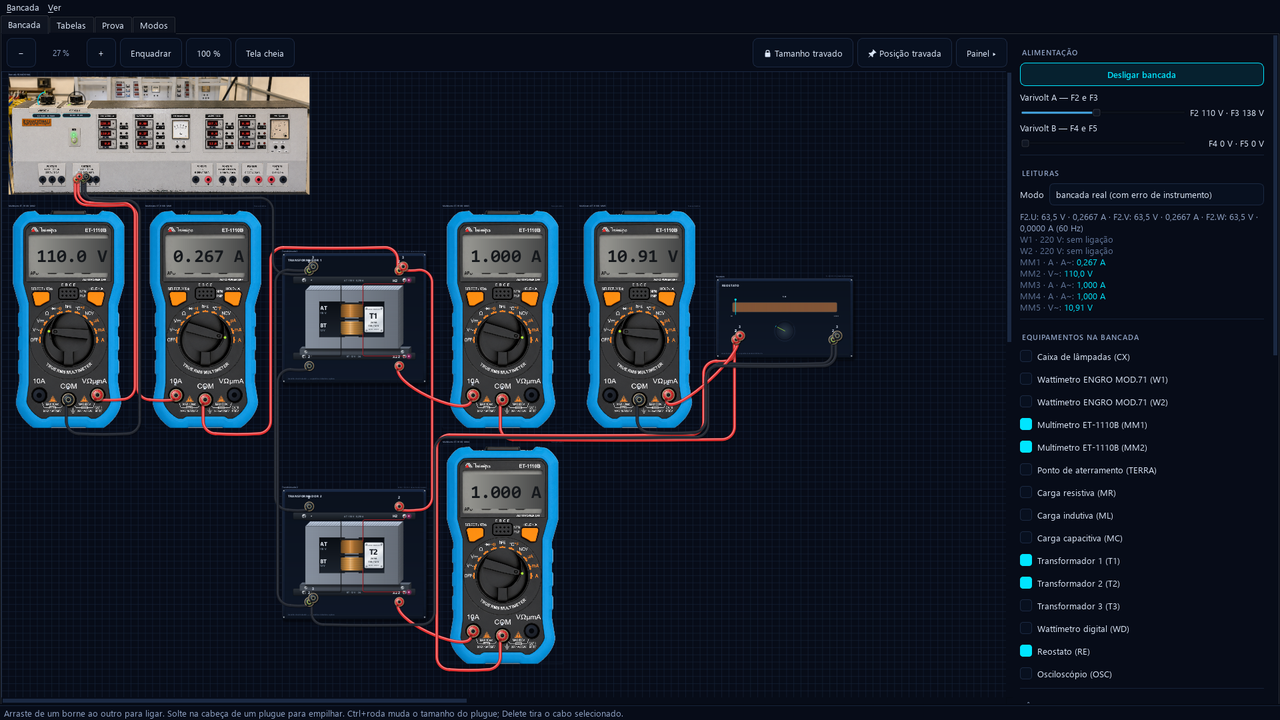
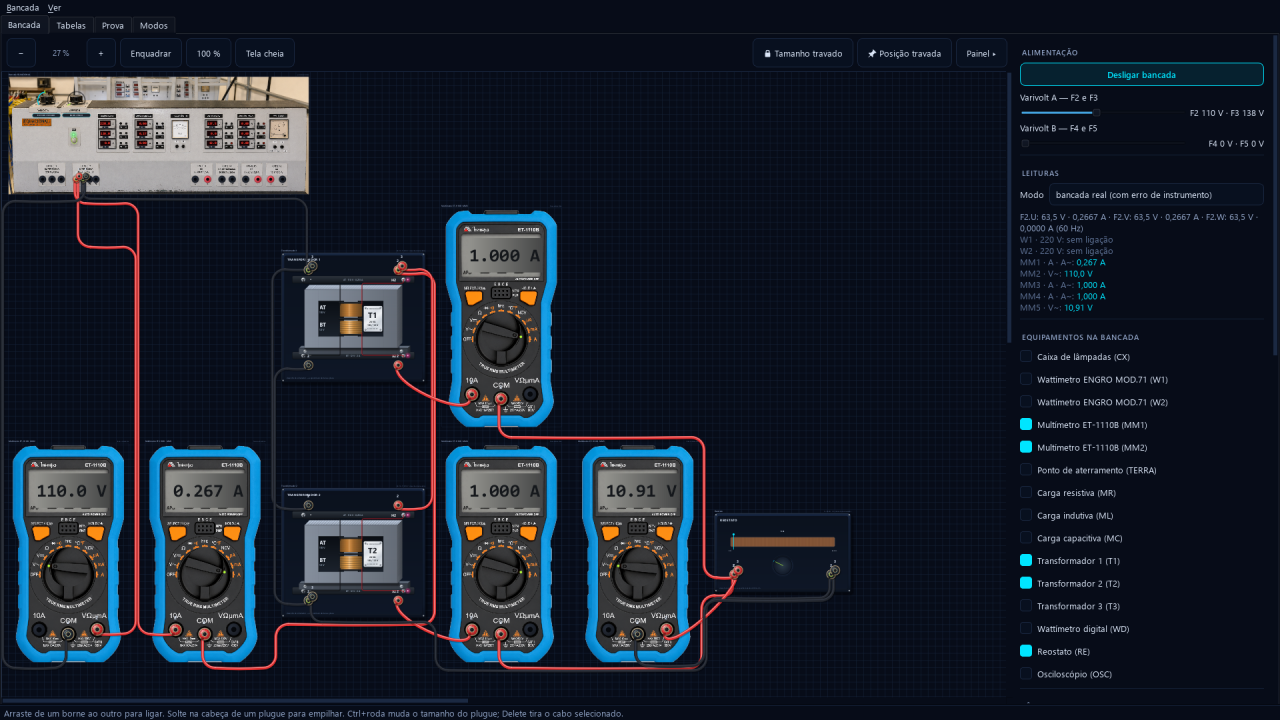
README com as novidades da 1.19.4: as figuras do Exp 6
O parágrafo de novidades passa a falar da 1.19.4: a linha de baixo da
Figura 3 do Exp 6, o V3 preto da Figura 2 e o jumper do transformador por
fora. Fica uma frase com a 1.19.3 e o link dela. A imagem do paralelismo
foi refeita na 1.19.4 — a anterior tinha o V1, o A, o V e o reostato na
fileira do T1 —, e a legenda diz o que ela mostra agora.

Changed region(s): [[0.0, 0.1222, 0.6562, 0.9472]]

diff --git a/README.md b/README.md
@@ -9,13 +9,15 @@ os cabos você pluga um a um, como faz na aula.
 **[⬇ Baixar a última versão](../../releases/latest)** · Windows 64 bits · não
 pede administrador · funciona sem internet
 
-**Novo na 1.19.3:** passar o mouse num borne de um multímetro que acabou de
-chegar à mesa não abre mais o aviso de falha, e o desfazer (Ctrl+Z) — e o abrir
-de uma montagem salva — devolve cada multímetro com o número que tinha, sem
-parar no meio. [O que mudou](../../releases/tag/v1.19.3). Desde a 1.19.2, o que
-cada amperímetro mede sai da ligação, e não do número do visor, e os wattímetros
-da Figura 2 do Exp 4 ficam no borne de 1 A, como a apostila manda —
-[o que mudou na 1.19.2](../../releases/tag/v1.19.2).
+**Novo na 1.19.4:** as montagens prontas do Experimento 6 ficaram mais fiéis
+às figuras — no paralelismo (Figura 3), o V1, o A, o V e o reostato na linha
+do T2, como o desenho; no método CA (Figura 2), o V3 com os dois fios pretos;
+e o jumper do próprio transformador, no autotransformador e na Figura 2,
+dando a volta por fora em vez de cortar o núcleo. A fiação e as leituras são
+as mesmas. [O que mudou](../../releases/tag/v1.19.4). Na 1.19.3, o aviso de
+falha ao passar o mouse num multímetro recém-chegado e o desfazer que trocava
+o número dos multímetros foram corrigidos —
+[o que mudou na 1.19.3](../../releases/tag/v1.19.3).
 
 ---
 
@@ -51,7 +53,7 @@ primeira lâmpada na Figura 2 do Experimento 1. Nenhum borne de instrumento
 vira emenda — a linha se abre em ramos na carga, como na bancada —, e nenhum
 cabo passa por cima de visor, mostrador, bocal ou de outro aparelho.
 
-![A Figura 3 do Experimento 6 — dois transformadores em paralelo —, com o T1 sobre o T2 e o A1 sobre o A2, cada amperímetro na linha do seu transformador, como o desenho](img/transformadores.png)
+![A Figura 3 do Experimento 6 — dois transformadores em paralelo —, com o T1 sobre o T2 e o A1 sobre o A2, e o V1, o A, o V e o reostato na linha do T2, como o desenho](img/transformadores.png)
 
 **Medir.** Os multímetros são ET-1110B com as faixas do manual: a leitura sai
 com a resolução da faixa, mostra `OL` quando estoura e tem a incerteza
